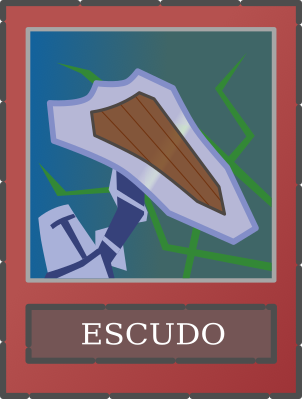
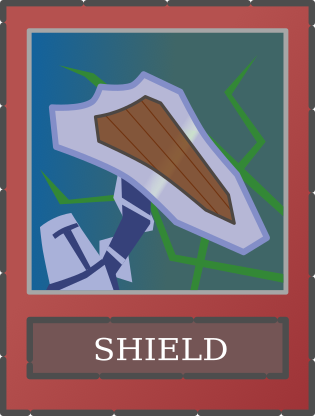
Update sword card, fix mixed language

Changed region(s): [[0.2682, 0.782, 0.745, 0.8722]]

diff --git a/index.html b/index.html
@@ -16,12 +16,13 @@
          <div></div>
       </div>
 
-      <h3 class="sub-title">Instructions: <span style=>
-         Espada</span> le gana a <span style="color: rgb(209, 13, 13);">
-         Magia</span>,<br> <span style="color: rgb(209, 13, 13);">
-            Magia</span> le gana a <span style="color: rgb(4, 157, 4);">
-               Escudo</span>, <span style="color: rgb(4, 157, 4);">
-                  Escudo</span> le gana a Espada.</h3>
+      <h3 class="sub-title">Instructions: <span style="color: rgb(4, 157, 4);">
+         Shield</span> beats <span style="color: rgb(13, 173, 209);">
+         Sword</span>,<br> <span style="color: rgb(13, 173, 209);">
+         Sword</span> beats <span style="color: rgb(231, 74, 71);">
+         Magic</span>, <span style="color: rgb(231, 74, 71);">
+         Magic</span> beats <span style="color: rgb(4, 157, 4);">
+         Shield</span>.</h3>
 
       <div class="main-text">
          <div id ="results"></div>
@@ -29,9 +30,9 @@
       </div>
 
       <div class="cards">
-         <img class="player-cards" id="rock" src="img/rock.png" alt="rock card" width="200px">
-         <img class="player-cards" id="paper" src="img/paper.png" alt="rock card" width="200px">
-         <img class="player-cards" id="scissors" src="img/scissors.png" alt="rock card" width="200px">
+         <img class="player-cards" id="rock" src="img/rock.png" alt="rock card" width="180px">
+         <img class="player-cards" id="scissors" src="img/scissors.png" alt="rock card" width="180px">
+         <img class="player-cards" id="paper" src="img/paper.png" alt="rock card" width="180px">
       </div>
 
       <h3 class="rival">Rival card: </h3>
